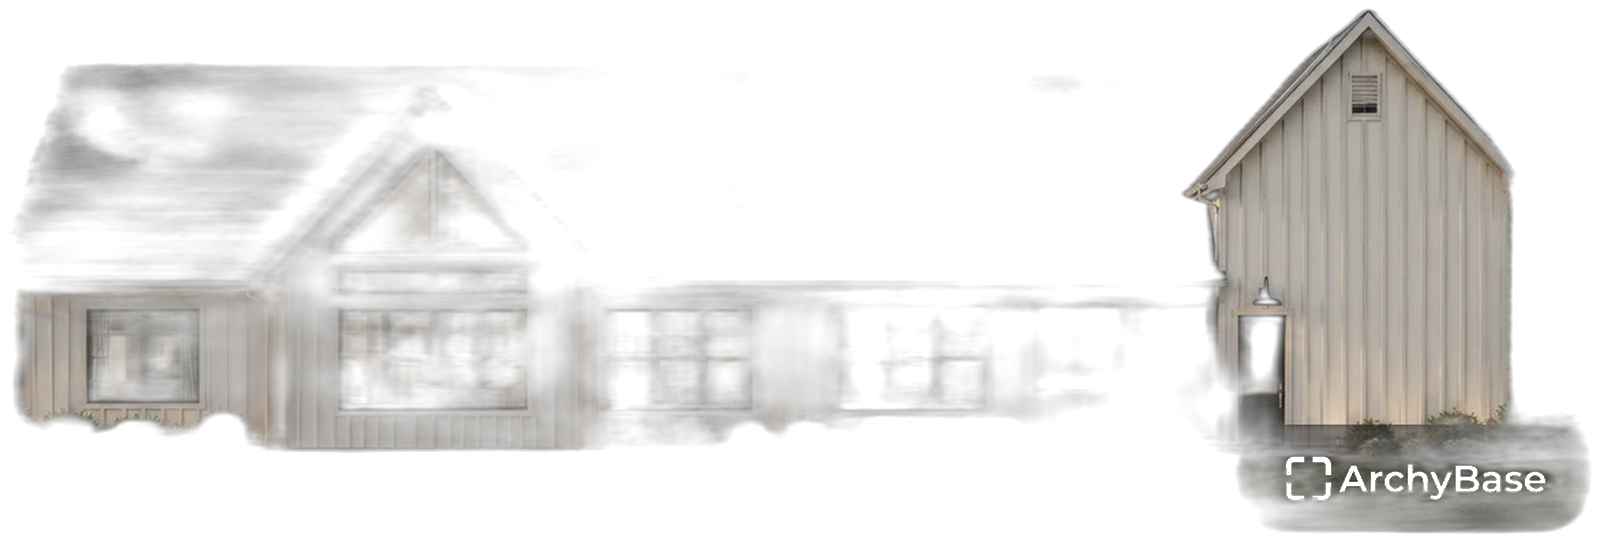
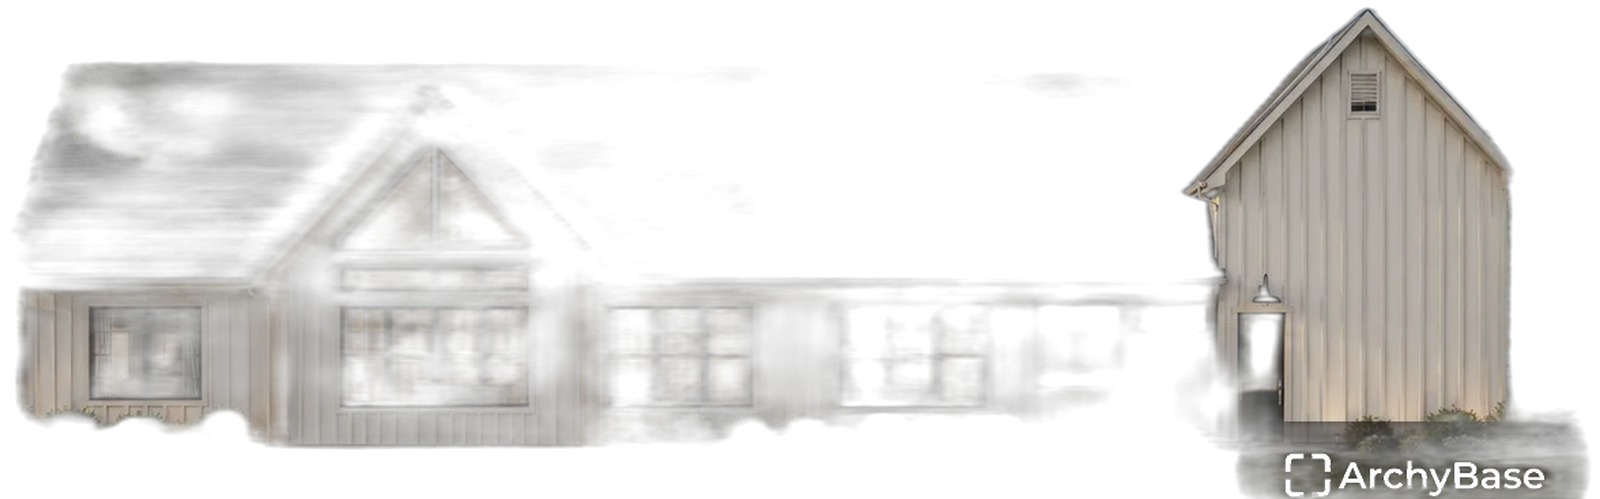
Tighten Whitestone skins to door threshold; kill front occluders
Recut front/rear PNGs so foundation plantings don’t fake a grass gap,
hide deeper street-side porch volumes under the skin, and extend the
driveway tip further under the facade.

diff --git a/src/components/lotVisualizer/whitestoneHouse.ts b/src/components/lotVisualizer/whitestoneHouse.ts
@@ -468,8 +468,8 @@ function makeSkinPlane(
 }
 
 /** Paths for Whitestone exterior wraps (cleaned cutouts preferred). */
-export const WHITESTONE_FRONT_SKIN = '/plans/refs/whitestone-front.png?v=archy2'
-export const WHITESTONE_REAR_SKIN = '/plans/refs/whitestone-rear.png?v=archy2'
+export const WHITESTONE_FRONT_SKIN = '/plans/refs/whitestone-front.png?v=archy3'
+export const WHITESTONE_REAR_SKIN = '/plans/refs/whitestone-rear.png?v=archy3'
 
 function applySkinTexture(mesh: THREE.Mesh, tex: THREE.Texture, widthM: number): void {
   tex.colorSpace = THREE.SRGBColorSpace
@@ -543,25 +543,23 @@ function hideStreetOccluders(house: THREE.Group): void {
   house.getWorldQuaternion(q)
   const inv = q.clone().invert()
   const tmp = new THREE.Vector3()
-  const frontLimit = -(house.userData.depthM as number) * 0.22
+  // Anything whose center sits in the front third is an occluder risk
+  const frontLimit = -(house.userData.depthM as number) * 0.12
 
   house.traverse((o) => {
     if (!(o as THREE.Mesh).isMesh) return
     if (o.name === 'streetFacade' || o.name === 'rearFacade' || o.name === 'footprintPad') return
     o.getWorldPosition(tmp)
     // House-local Z: more negative = closer to street
-    const local = tmp.sub(origin).applyQuaternion(inv)
+    const local = tmp.clone().sub(origin).applyQuaternion(inv)
     if (local.z > frontLimit) return
     const geo = (o as THREE.Mesh).geometry
     if (!geo.boundingBox) geo.computeBoundingBox()
     const bb = geo.boundingBox
     if (!bb) return
     const depth = bb.max.z - bb.min.z
-    const width = bb.max.x - bb.min.x
-    // Hide shallow facade props and forward porch/entry chunks, keep deep wings
-    if (depth < 3.5 && width < (house.userData.widthM as number) * 0.7) {
-      o.visible = false
-    }
+    // Keep only deep primary wing volumes; hide porch/entry/door/window chunks
+    if (depth < 6.5) o.visible = false
   })
 }
 

diff --git a/src/studio/StudioCanvas.tsx b/src/studio/StudioCanvas.tsx
@@ -742,9 +742,9 @@ export default function StudioCanvas({
       const uz = dz / len
 
       // Overshoot past the facade into the house mass so pave reads as going
-      // all the way under the garage door (billboard has no depth).
-      const tipX = worldDoor.x + ux * 8.0
-      const tipZ = worldDoor.z + uz * 8.0
+      // all the way under the garage door (billboard skins have no depth).
+      const tipX = worldDoor.x + ux * 12.0
+      const tipZ = worldDoor.z + uz * 12.0
       dx = tipX - fx
       dz = tipZ - fz
       len = Math.hypot(dx, dz)
